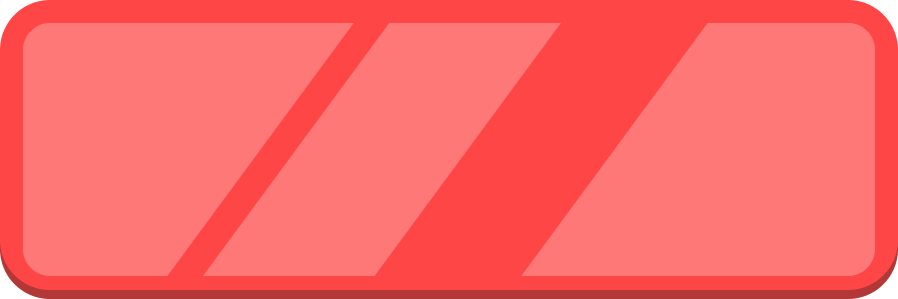
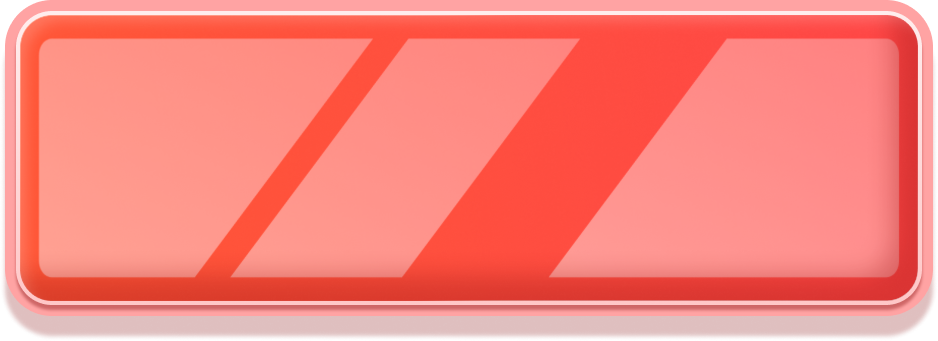
App redesign

diff --git a/lib/screens/main/home_page.dart b/lib/screens/main/home_page.dart
@@ -1,3 +1,4 @@
+import 'package:gradient_borders/gradient_borders.dart';
 import 'package:flutter/material.dart';
 import 'package:vitalact/widgets/app_button.dart';
 import 'package:vitalact/widgets/sprite_animation.dart';
@@ -14,6 +15,18 @@ class HomePage extends StatelessWidget {
 
     return Stack(
       children: [
+        Container(
+          decoration: const BoxDecoration(
+              gradient: LinearGradient(
+            colors: [
+              Color.fromARGB(255, 255, 255, 255),
+              Color.fromARGB(255, 255, 255, 255),
+              Color(0xFFFFEDED)
+            ],
+            begin: Alignment.topCenter,
+            end: Alignment.bottomCenter,
+          )),
+        ),
         Positioned(
           top: height * -0.4,
           child: Image.asset(
@@ -32,41 +45,107 @@ class HomePage extends StatelessWidget {
           left: 0,
           right: 0,
           child: Center(
-              child: AppButton(
-            onPressed: () {},
-            width: width * 0.9,
-            height: 70,
-            borderRadius: 15,
-            padding: const EdgeInsetsGeometry.symmetric(horizontal: 0),
-            backgroundColor: const Color(0xFFFF4646),
-            borderColor: const Color(0xFFFF4646),
-            shadowColor: const Color(0xFFCC3838),
-            child: const Column(
-              mainAxisSize: MainAxisSize.min,
-              crossAxisAlignment: CrossAxisAlignment.start,
+            child: Stack(
               children: [
-                Text(
-                  "CONTINUE",
-                  style: TextStyle(
-                    fontSize: 15,
-                    height: 1.2,
-                    color: Color(0xB3FFFFFF),
+                AppButton(
+                  onPressed: () {},
+                  width: width * 0.9,
+                  height: 65,
+                  borderRadius: 15,
+                  padding: const EdgeInsetsGeometry.symmetric(horizontal: 0),
+                  backgroundColor: const Color(0xFFFF4646),
+                  borderColor: const Color(0xFFFF4646),
+                  shadowColor: const Color(0xFFCC3838),
+                  child: const Column(
+                    mainAxisSize: MainAxisSize.min,
+                    crossAxisAlignment: CrossAxisAlignment.start,
+                    children: [
+                      Text(
+                        "CONTINUE",
+                        style: TextStyle(
+                          fontSize: 17,
+                          height: 1.2,
+                          color: Color(0xB3FFFFFF),
+                        ),
+                      ),
+                      Text(
+                        "Recognition: Life-threatening red flags",
+                        style: TextStyle(
+                          fontSize: 19,
+                          height: 1.1,
+                          color: Color(0xFFFFFFFF),
+                        ),
+                      ),
+                    ],
                   ),
                 ),
-                Text(
-                  "Recognition: Life-threatening red flags",
-                  style: TextStyle(
-                    fontSize: 17,
-                    height: 1.1,
-                    color: Color(0xFFFFFFFF),
+                Positioned.fill(
+                  child: ClipRRect(
+                    borderRadius: BorderRadius.circular(15),
+                    child: Stack(
+                      children: [
+                        Container(
+                          decoration: const BoxDecoration(
+                            gradient: LinearGradient(
+                              begin: Alignment.centerRight,
+                              end: Alignment.centerLeft,
+                              colors: [
+                                Color(0x25000000),
+                                Color(0x00000000),
+                              ],
+                              stops: [0.0, 0.1],
+                            ),
+                          ),
+                        ),
+                        Container(
+                          decoration: const BoxDecoration(
+                            gradient: LinearGradient(
+                              begin: Alignment.bottomCenter,
+                              end: Alignment.topCenter,
+                              colors: [
+                                Color(0x25000000),
+                                Color(0x00000000),
+                              ],
+                              stops: [0.0, 0.2],
+                            ),
+                          ),
+                        ),
+                        Container(
+                          decoration: const BoxDecoration(
+                            gradient: LinearGradient(
+                              begin: Alignment.topCenter,
+                              end: Alignment.bottomCenter,
+                              colors: [
+                                Color.fromARGB(34, 255, 255, 255),
+                                Color.fromARGB(0, 255, 255, 255),
+                              ],
+                              stops: [0.0, 0.15],
+                            ),
+                          ),
+                        ),
+                        Container(
+                          decoration: const BoxDecoration(
+                            gradient: LinearGradient(
+                              begin: Alignment.centerLeft,
+                              end: Alignment.centerRight,
+                              colors: [
+                                Color.fromARGB(36, 255, 255, 255),
+                                Color.fromARGB(0, 255, 255, 255),
+                              ],
+                              stops: [0.0, 0.05],
+                            ),
+                          ),
+                        ),
+                      ],
+                    ),
                   ),
                 ),
               ],
             ),
-          )),
+          ),
         ),
         Positioned.fill(
-          top: height * 0.162,
+          top: height * 0.157,
           child: const Lesson(),
         ),
       ],
@@ -221,30 +300,63 @@ class _LessonState extends State<Lesson> {
 
                                 // Progress Bar
                                 if (active)
-                                  Container(
-                                    decoration: BoxDecoration(
-                                      borderRadius: BorderRadius.circular(25),
-                                      border: Border.all(
-                                        color: const Color(0xFFCC3838),
-                                        width: 2,
+                                  Stack(
+                                    children: [
+                                      Positioned.fill(
+                                        child: Container(
+                                          decoration: BoxDecoration(
+                                              borderRadius:
+                                                  const BorderRadius.all(
+                                                      Radius.circular(20)),
+                                              border: Border.all(
+                                                width: 3,
+                                                color: const Color(0xFFFFA3A3),
+                                              ),
+                                              boxShadow: const [
+                                                BoxShadow(
+                                                    color: Color.fromARGB(
+                                                        44, 128, 0, 0),
+                                                    offset: Offset(0, 7),
+                                                    blurRadius: .5)
+                                              ]),
+                                        ),
                                       ),
-                                      boxShadow: const [
-                                        BoxShadow(
-                                          color: Color(0xFFCC3838),
-                                          offset: Offset(0, 3),
-                                          blurRadius: 0,
-                                        )
-                                      ],
-                                    ),
-                                    child: LinearProgressIndicator(
-                                      value: index <= currentStep
-                                          ? (index < currentStep ? 1 : 0)
-                                          : 0,
-                                      minHeight: 13,
-                                      backgroundColor: Colors.white,
-                                      color: const Color(0xFFFF4646),
-                                      borderRadius: BorderRadius.circular(25),
-                                    ),
+                                      Container(
+                                        margin: const EdgeInsets.all(3.5),
+                                        decoration: const BoxDecoration(
+                                          borderRadius: BorderRadius.all(
+                                              Radius.circular(8)),
+                                          border: GradientBoxBorder(
+                                            gradient: LinearGradient(
+                                              colors: [
+                                                Color(0xFFFFFFFF),
+                                                Color(0xFFFFD0D0),
+                                              ],
+                                              begin: Alignment.topLeft,
+                                              end: Alignment.bottomRight,
+                                            ),
+                                            width: 1.5,
+                                          ),
+                                          boxShadow: [
+                                            BoxShadow(
+                                              color: Color(0xAAAD3D3D),
+                                              offset: Offset(0, 2),
+                                              blurRadius: 5,
+                                            ),
+                                          ],
+                                        ),
+                                        child: LinearProgressIndicator(
+                                          value: index <= currentStep
+                                              ? (index < currentStep ? 1 : 0)
+                                              : 0,
+                                          minHeight: 13,
+                                          backgroundColor: Colors.white,
+                                          color: const Color(0xFFFF4646),
+                                          borderRadius:
+                                              BorderRadius.circular(25),
+                                        ),
+                                      ),
+                                    ],
                                   ),
                               ],
                             ),
